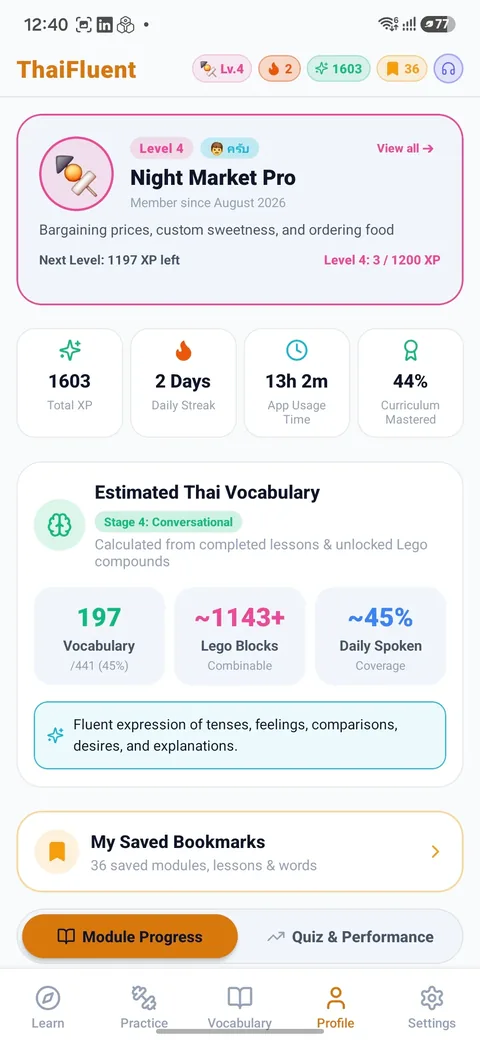
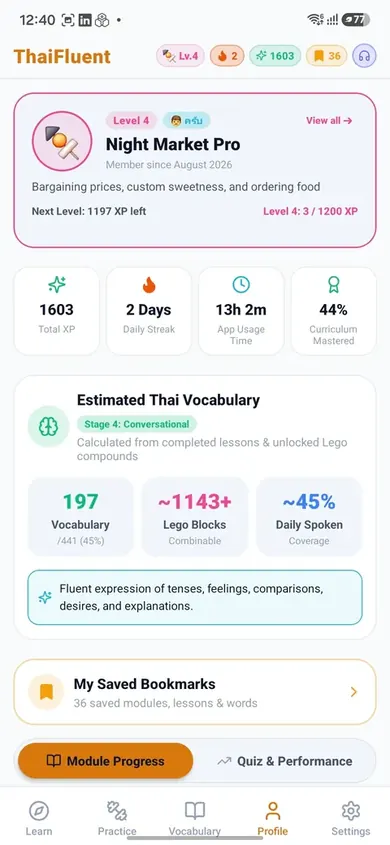
perf(core): eliminate render-blocking CSS and ultra-optimize WebP mockups
- Inline Plus Jakarta Sans variable @font-face and preload WOFF2 directly from gstatic
- Completely eliminate Google Fonts render-blocking stylesheet request (-1,040ms FCP)
- Right-size WebP screenshots to 390px wide (24-27 KiB each), saving an additional ~50 KiB
- Remove chained critical dependency tree

diff --git a/privacy.html b/privacy.html
@@ -21,11 +21,19 @@
   <meta name="description" content="Privacy Policy for ThaiFluent mobile app and thaifluent.com. 100% offline and private.">
   <link rel="icon" type="image/png" href="favicon.png">
   <link rel="shortcut icon" href="favicon.ico">
-  <!-- Google Fonts: Preconnected & Optimized -->
-  <link rel="preconnect" href="https://fonts.googleapis.com">
+  <!-- Preconnect & Preload Critical Font (Zero Render-Blocking Requests) -->
   <link rel="preconnect" href="https://fonts.gstatic.com" crossorigin>
-  <link rel="stylesheet" href="https://fonts.googleapis.com/css2?family=Plus+Jakarta+Sans:wght@400;500;600;700;800&display=swap">
+  <link rel="preload" as="font" type="font/woff2" href="https://fonts.gstatic.com/s/plusjakartasans/v12/LDIoaomQNQcsA88c7O9yZ4KMCoOg4Ko20yw.woff2" crossorigin>
   <style>
+    @font-face {
+      font-family: 'Plus Jakarta Sans';
+      font-style: normal;
+      font-weight: 400 800;
+      font-display: swap;
+      src: url('https://fonts.gstatic.com/s/plusjakartasans/v12/LDIoaomQNQcsA88c7O9yZ4KMCoOg4Ko20yw.woff2') format('woff2');
+      unicode-range: U+0000-00FF, U+0131, U+0152-0153, U+02BB-02BC, U+02C6, U+02DA, U+02DC, U+0304, U+0308, U+0329, U+2000-206F, U+20AC, U+2122, U+2191, U+2193, U+2212, U+2215, U+FEFF, U+FFFD;
+    }
+
     :root {
       --bg: #0B0F19;
       --card-bg: rgba(17, 24, 39, 0.8);

diff --git a/terms.html b/terms.html
@@ -21,11 +21,19 @@
   <meta name="description" content="Terms of Service for ThaiFluent mobile app and thaifluent.com.">
   <link rel="icon" type="image/png" href="favicon.png">
   <link rel="shortcut icon" href="favicon.ico">
-  <!-- Google Fonts: Preconnected & Optimized -->
-  <link rel="preconnect" href="https://fonts.googleapis.com">
+  <!-- Preconnect & Preload Critical Font (Zero Render-Blocking Requests) -->
   <link rel="preconnect" href="https://fonts.gstatic.com" crossorigin>
-  <link rel="stylesheet" href="https://fonts.googleapis.com/css2?family=Plus+Jakarta+Sans:wght@400;500;600;700;800&display=swap">
+  <link rel="preload" as="font" type="font/woff2" href="https://fonts.gstatic.com/s/plusjakartasans/v12/LDIoaomQNQcsA88c7O9yZ4KMCoOg4Ko20yw.woff2" crossorigin>
   <style>
+    @font-face {
+      font-family: 'Plus Jakarta Sans';
+      font-style: normal;
+      font-weight: 400 800;
+      font-display: swap;
+      src: url('https://fonts.gstatic.com/s/plusjakartasans/v12/LDIoaomQNQcsA88c7O9yZ4KMCoOg4Ko20yw.woff2') format('woff2');
+      unicode-range: U+0000-00FF, U+0131, U+0152-0153, U+02BB-02BC, U+02C6, U+02DA, U+02DC, U+0304, U+0308, U+0329, U+2000-206F, U+20AC, U+2122, U+2191, U+2193, U+2212, U+2215, U+FEFF, U+FFFD;
+    }
+
     :root {
       --bg: #0B0F19;
       --card-bg: rgba(17, 24, 39, 0.8);

diff --git a/index.html b/index.html
@@ -106,14 +106,22 @@
     ]
   }
   </script>
-  <!-- Google Fonts: Preconnected & Optimized -->
-  <link rel="preconnect" href="https://fonts.googleapis.com">
+  <!-- Preconnect & Preload Critical Font (Zero Render-Blocking Requests) -->
   <link rel="preconnect" href="https://fonts.gstatic.com" crossorigin>
-  <link rel="stylesheet" href="https://fonts.googleapis.com/css2?family=Plus+Jakarta+Sans:wght@400;500;600;700;800&display=swap">
+  <link rel="preload" as="font" type="font/woff2" href="https://fonts.gstatic.com/s/plusjakartasans/v12/LDIoaomQNQcsA88c7O9yZ4KMCoOg4Ko20yw.woff2" crossorigin>
 
   <!-- Preload Critical LCP Hero Mockup Image -->
   <link rel="preload" as="image" href="assets/screen-tones.webp" type="image/webp" fetchpriority="high">
   <style>
+    @font-face {
+      font-family: 'Plus Jakarta Sans';
+      font-style: normal;
+      font-weight: 400 800;
+      font-display: swap;
+      src: url('https://fonts.gstatic.com/s/plusjakartasans/v12/LDIoaomQNQcsA88c7O9yZ4KMCoOg4Ko20yw.woff2') format('woff2');
+      unicode-range: U+0000-00FF, U+0131, U+0152-0153, U+02BB-02BC, U+02C6, U+02DA, U+02DC, U+0304, U+0308, U+0329, U+2000-206F, U+20AC, U+2122, U+2191, U+2193, U+2212, U+2215, U+FEFF, U+FFFD;
+    }
+
     :root {
       --bg: #0B0F19;
       --card-bg: rgba(17, 24, 39, 0.75);
